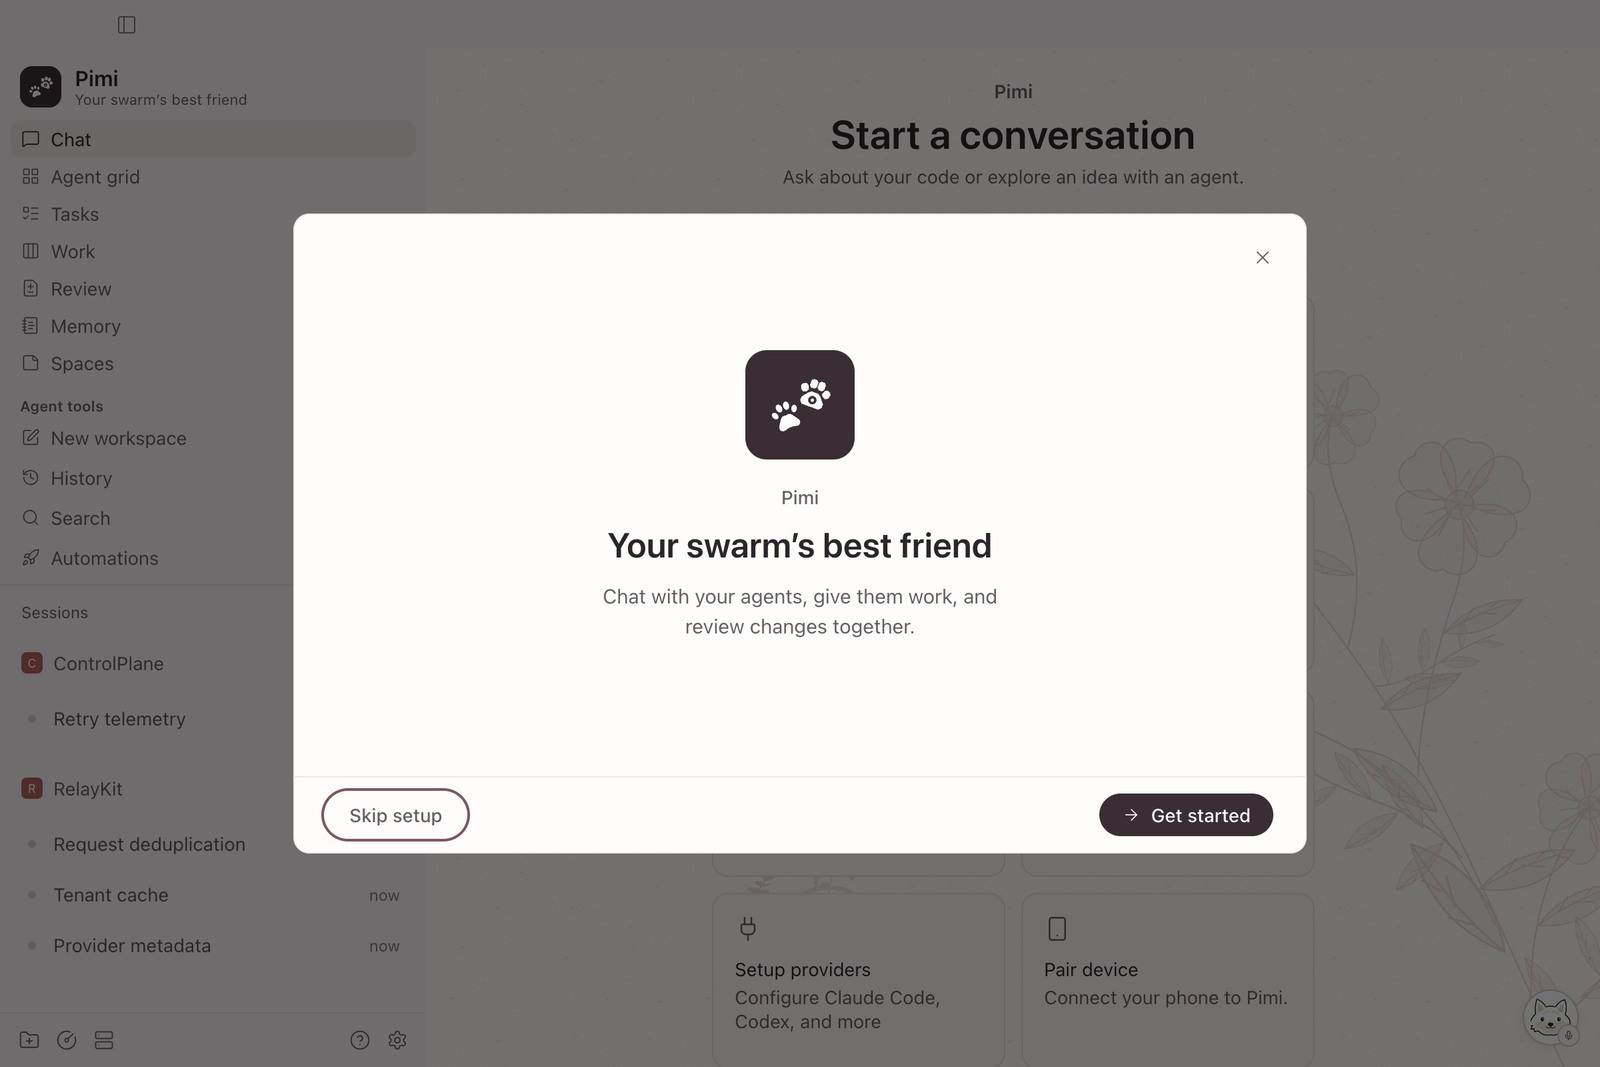
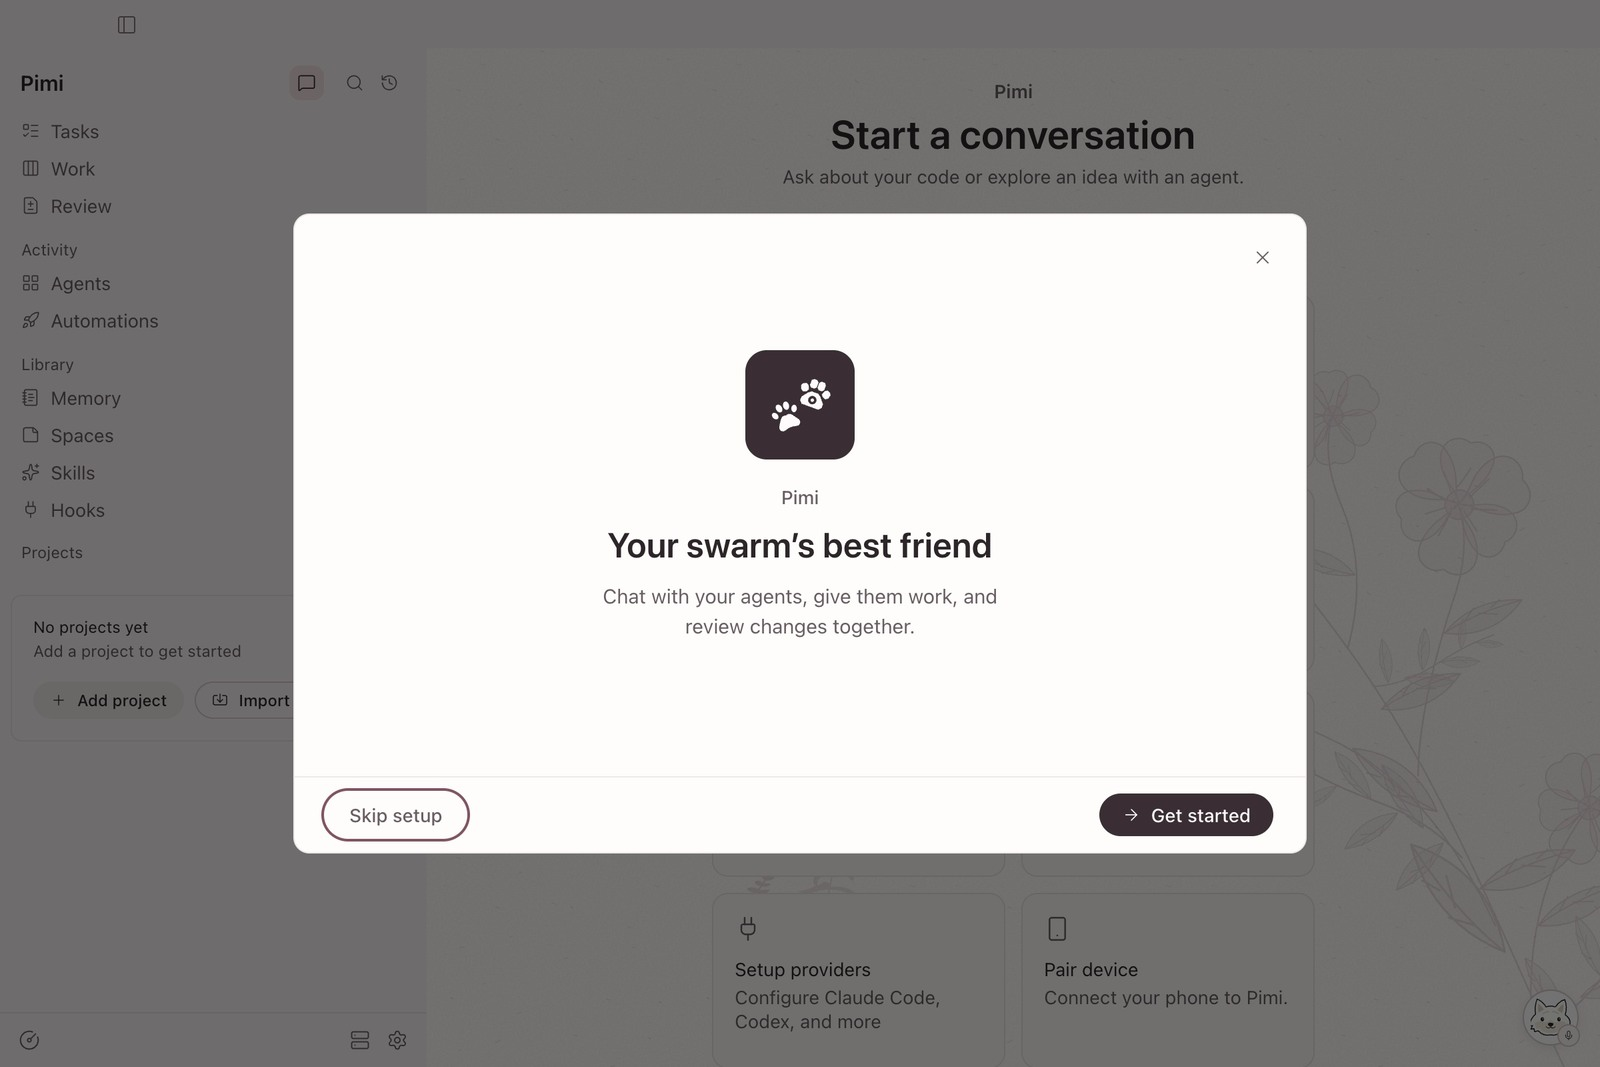
Refresh Pimi README screenshots for 0.16.5

diff --git a/README.md b/README.md
@@ -6,34 +6,34 @@
 
 Chat with your agents, track their work, and review the changes in one app.
 
-[Download for macOS or Windows](https://1ikeadragon.github.io/pimi/)
+[Download for macOS or Windows](https://1ikeadragon.github.io/pimi/) · [Release notes](https://github.com/1ikeadragon/pimi/releases/latest)
 
 ## Chat and Tasks
 
-Track something from chat or send agents to explore it in separate worktrees. Queue a follow-up, fork a chat across providers, or click Pimi to give a voice command.
+Ask an agent to track a task or send a few agents to explore it. Queue a follow-up, fork a chat to another provider, or click Pimi to give a voice command.
 
 ![Chat with a task created from a message](assets/pimi/chat.jpg)
 
-The Tasks board follows linked work and lets you move cards yourself. Open a task to read the agents’ reports.
+Linked work moves tasks along automatically. You can move cards yourself and read the agents’ reports from the task.
 
 ![Tasks board with stages, labels, and linked work](assets/pimi/task-board.jpg)
 
 ## Watch the swarm
 
-Tile agent sessions in **Agent grid**. Use **Work** to see where each worktree stands.
+Watch six sessions at once in **Agent grid** on a wide window. **Work** tracks the branches behind them.
 
 ![Agent grid with parallel sessions](assets/pimi/agent-grid.jpg)
 
 ## Review together
 
-Compare worktree diffs side by side. Switch to **PRs** for review requests, check results, and pull request details.
+Compare diffs across worktrees and repositories. Open **PRs** to see review requests, checks, and pull request details.
 
-![The same source file in two worktree diffs](assets/pimi/review.jpg)
+![Side-by-side diffs from two repositories](assets/pimi/review.jpg)
 
 ![Pull request queue and check results](assets/pimi/pull-requests.jpg)
 
 <details>
-<summary>Setup, Work, Memory, Spaces, Automations, and Usage</summary>
+<summary>Setup, Work, Memory, Spaces, Automations, Usage, and Library</summary>
 
 **Setup** gets you from the welcome screen to your first chat.
 
@@ -47,19 +47,31 @@ Compare worktree diffs side by side. Switch to **PRs** for review requests, chec
 
 ![Shared memory notes and their contents](assets/pimi/memory.jpg)
 
-**Spaces** holds links, images, and scratch notes. Open arXiv papers in Pimi, search notes and links locally, or copy a card ID for an agent.
+**Spaces** is a scratchpad for links, images, and notes. Search it locally, open papers in Pimi, or give an agent a card ID.
 
-![Spaces with scratch notes, a link, and an image](assets/pimi/spaces.jpg)
+![Spaces with a paper preview, links, and scratch notes](assets/pimi/spaces.jpg)
 
-**Automations** runs repeat jobs like PR review and project digests.
+![An arXiv paper open inside Pimi](assets/pimi/spaces-reader.jpg)
 
-![Automation schedules and templates](assets/pimi/automations.jpg)
+**Automations** runs jobs on a schedule and keeps their results in chat.
 
-**Usage** shows context, recorded compactions, and what shipped in Recap. Run `/context` in Claude Code to see its token breakdown.
+![Active automations with their most recent runs](assets/pimi/automations.jpg)
 
-![Session usage in Pimi](assets/pimi/usage.jpg)
+![A completed automation with a replay regression report](assets/pimi/automation-result.jpg)
+
+**Usage** shows context and recorded compactions. Run `/context` in Claude Code for a token breakdown. **Recap** brings together finished tasks and merged PRs.
+
+![Claude Code context breakdown and recorded compactions in Usage](assets/pimi/usage.jpg)
+
+![Usage Recap with completed tasks and merged pull requests](assets/pimi/usage-recap.jpg)
+
+**Library** is where you manage skills for your agents.
+
+![Installed and available skills in Library](assets/pimi/library.jpg)
 
 </details>
+
+Screenshots show Pimi 0.16.5 with sample projects and activity.
 
 ## Build from source
 
